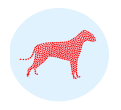
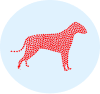
Add morgan image

diff --git a/css/style.css b/css/style.css
@@ -75,6 +75,9 @@
     font-size: 1rem;
     font-weight: bold;
 }
+#morgan {
+    max-width: 24px;
+}
 
 .bottomNav{
     display: flex;
@@ -164,7 +167,7 @@
     grid-row: span 2;
     background-color: var(--main-background-color);
     display: grid;
-    grid-template-columns: 1fr .49fr;
+    grid-template-columns: 1fr .5fr;
     gap: 16px;
     padding: 32px;
 }
@@ -186,7 +189,7 @@
 }
 .announcements footer {
     border-bottom: 2px solid var(--light-border);
-    margin-top: 24px;
+    margin-top: 16px;
 }
 .cards {
     display: grid;
@@ -196,14 +199,14 @@
     border-radius: 4px;
     background-color: var(--card-background-color);
     box-shadow: 4px 4px 4px rgb(196, 202, 204);
-    padding: 16px;
+    padding: 8px 16px;
     display: grid;
 }
 .card > footer {
     display: grid;
     grid-template-columns: repeat(3, 32px);
     justify-content: end;
-    gap: 16px;
+    align-items: center;
 }
 .card h2 {
     font-size: medium;
@@ -211,15 +214,24 @@
 .projects > .card{
     border-left: 6px solid var(--card-border-color);
 }
+.card-description, .description {
+    font-size: small;
+}
 .trending .card {
     display: flex;
     align-items: center;
+    justify-content: start;
 }
 .trending .user {
     font-weight: bold;
+    font-size: small;
 }
 .trending img {
     max-width: 32px;
+    margin-right: 16px;
+}
+.trending .project {
+    font-size: small;
 }
 .header h1 {
     font-size: large;

diff --git a/index.html b/index.html
@@ -25,7 +25,7 @@
               <img src="icons/bell.png" alt="Bell icon">
             </div>
             <div class="avatar">
-              <img src="icons/account-circle.png" alt="Avatar icon">
+              <img src="icons/morgan.png" id="morgan" alt="Avatar icon">
             </div>
             <p>Memehack2023</p>
           </div>
